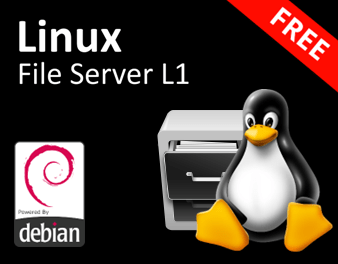
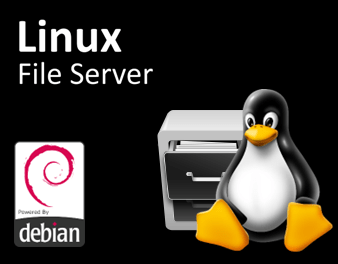
ajustes

Changed region(s): [[0.6805, 0.0, 1.0, 0.3636], [0.4734, 0.2424, 0.5621, 0.3333]]

diff --git a/index.html b/index.html
@@ -82,18 +82,12 @@
       <div class="Cards Flex5">
         <div class="Card">
           <img src="img/linux.png" alt="curso de linux">
-          <h3>Linux Server</h3>
+          <h3>Curso Linux Server</h3>
           <p>
-            Domine o Linux para o mercado! Aprenda na prática a instalar, configurar e administrar servidores. Sua jornada começa agora!
+            Domine o Linux para o mercado! Aprenda na prática a instalar, configurar e administrar servidores. Sua
+            jornada começa agora!
           </p>
           <a href="curso/linux.html" class="Botao">Saiba +</a>
-        </div>
-        <div class="Card">
-          <img src="img/fileserver.png" alt="curso servidor de arquivos">
-          <h3>Linux File Server L1</h3>
-          <p>Aprenda a instalar um Servidor de Arquivos Linux para empresas de pequeno e médio porte e transforme isso
-            em uma grande oportunidade!</p>
-          <a href="curso/fileserver.html" class="Botao">Saiba +</a>
         </div>
         <div class="Card">
           <img src="img/hal9000.png" alt="hal9000">
@@ -135,6 +129,13 @@
       <h2>Tutoriais</h2>
       <div class="Cards Flex5">
         <div class="Card">
+          <img src="img/fileserver.png" alt="curso servidor de arquivos">
+          <h3>Linux File Server</h3>
+          <p>Aprenda a instalar um Servidor de Arquivos Linux para empresas de pequeno e médio porte e transforme isso
+            em uma grande oportunidade!</p>
+          <a href="tutorial/fileserver.html" class="Botao">Saiba +</a>
+        </div>
+        <div class="Card">
           <img src="img/mysql.png" alt="mysql linux">
           <h3>Linux MySQL Server</h3>
           <p>
@@ -147,19 +148,10 @@
           <img src="img/tomcat.png" alt="linux tomcat">
           <h3>Linux Tomcat Server</h3>
           <p>
-            Aprenda a configurar um servidor WEB Linux com Tomcat e hospedar aplicações Java. Ideal para DevOps, estudantes de TI e desenvolvedores!
+            Aprenda a configurar um servidor WEB Linux com Tomcat e hospedar aplicações Java. Ideal para DevOps,
+            estudantes de TI e desenvolvedores!
           </p>
           <a href="tutorial/tomcat.html" class="Botao">Saiba +</a>
-        </div>
-        <div class="Card">
-          <img src="img/hal9000.png" alt="hal9000">
-          <h3>Em produção</h3>
-          <p>
-            Você pode acompanhar pelo YouTube todos os tutoriais que estão em
-            produção. Inscreva-se para não perder as novidades.
-          </p>
-          <a href="https://www.youtube.com/@ProfessorJosedeAssis?sub_confirmation=1" class="Botao" target="_blank">Saiba
-            +</a>
         </div>
       </div>
       <div class="Todos">

diff --git a/tutorial/fileserver.html b/tutorial/fileserver.html
@@ -17,7 +17,7 @@
   <header>
     <div class="ContainerEx Flex">
       <div id="logoBanner">
-        <img src="../img/diploma.png" alt="diploma">
+        <img src="../img/ovotux.png" alt="diploma">
       </div>
       <nav>
         <input type="checkbox" id="check">
@@ -36,7 +36,7 @@
   <!-- Destaque Cursos -->
   <main class="Banner2">
     <div class="Container">
-      <h1>CURSO</h1>
+      <h1>TUTORIAL</h1>
     </div>
   </main>
 
@@ -45,7 +45,7 @@
     <div class="Container">
       <h2>Linux File Server Level 1</h2>
       <p>
-        Descubra uma oportunidade de negócio! Muitas empresas precisam de soluções eficientes para compartilhar arquivos na rede local. Neste curso prático, você aprenderá passo a passo como instalar e configurar um Servidor de Arquivos Linux para atender redes de pequeno e médio porte. Tudo isso baseado em um projeto real para que você aprenda com cenários do dia a dia.
+        Descubra uma oportunidade de negócio! Muitas empresas precisam de soluções eficientes para compartilhar arquivos na rede local. Neste tutorial prático, você aprenderá passo a passo como instalar e configurar um Servidor de Arquivos Linux para atender redes de pequeno e médio porte. Tudo isso baseado em um projeto real para que você aprenda com cenários do dia a dia.
       </p>
       <h3>Pré-requisitos:</h3>
       <p>
@@ -59,8 +59,7 @@
           allowfullscreen></iframe>
       </div>
       <h3>▶ Playlist:</h3>
-      <a href="https://www.youtube.com/playlist?list=PLbEOwbQR9lqx8dx4_RqSl97jTJoj7x_q-" target="_blank">Iniciar
-        curso</a>      
+      <a href="https://www.youtube.com/playlist?list=PLbEOwbQR9lqx8dx4_RqSl97jTJoj7x_q-" target="_blank">Iniciar tutorial</a>      
       <h3>Material de apoio:</h3>
       <a href="https://github.com/professorjosedeassis/file-server" target="_blank"><img src="../img/pasta.png"
           alt="github"></a>

diff --git a/cursos.html b/cursos.html
@@ -60,13 +60,7 @@
             Domine o Linux para o mercado! Aprenda na prática a instalar, configurar e administrar servidores. Sua jornada começa agora!
           </p>
           <a href="curso/linux.html" class="Botao">Saiba +</a>
-        </div>
-        <div class="Card">
-          <img src="img/fileserver.png" alt="curso servidor de arquivos">
-          <h3>Linux File Server L1</h3>
-          <p>Aprenda a instalar um Servidor de Arquivos Linux para empresas de pequeno e médio porte e transforme isso em uma grande oportunidade!</p>
-          <a href="curso/fileserver.html" class="Botao">Saiba +</a>
-        </div>       
+        </div>             
         <div class="Card">
           <img src="img/hal9000.png" alt="hal9000">
           <h3>Em produção</h3>

diff --git a/tutoriais.html b/tutoriais.html
@@ -54,6 +54,12 @@
           <a href="apoio.html" class="Botao">Saiba +</a>
         </div>
         <div class="Card">
+          <img src="img/fileserver.png" alt="curso servidor de arquivos">
+          <h3>Linux File Server</h3>
+          <p>Aprenda a instalar um Servidor de Arquivos Linux para empresas de pequeno e médio porte e transforme isso em uma grande oportunidade!</p>
+          <a href="tutorial/fileserver.html" class="Botao">Saiba +</a>
+        </div>  
+        <div class="Card">
           <img src="img/mysql.png" alt="mysql linux">
           <h3>Linux MySQL Server</h3>
           <p>
